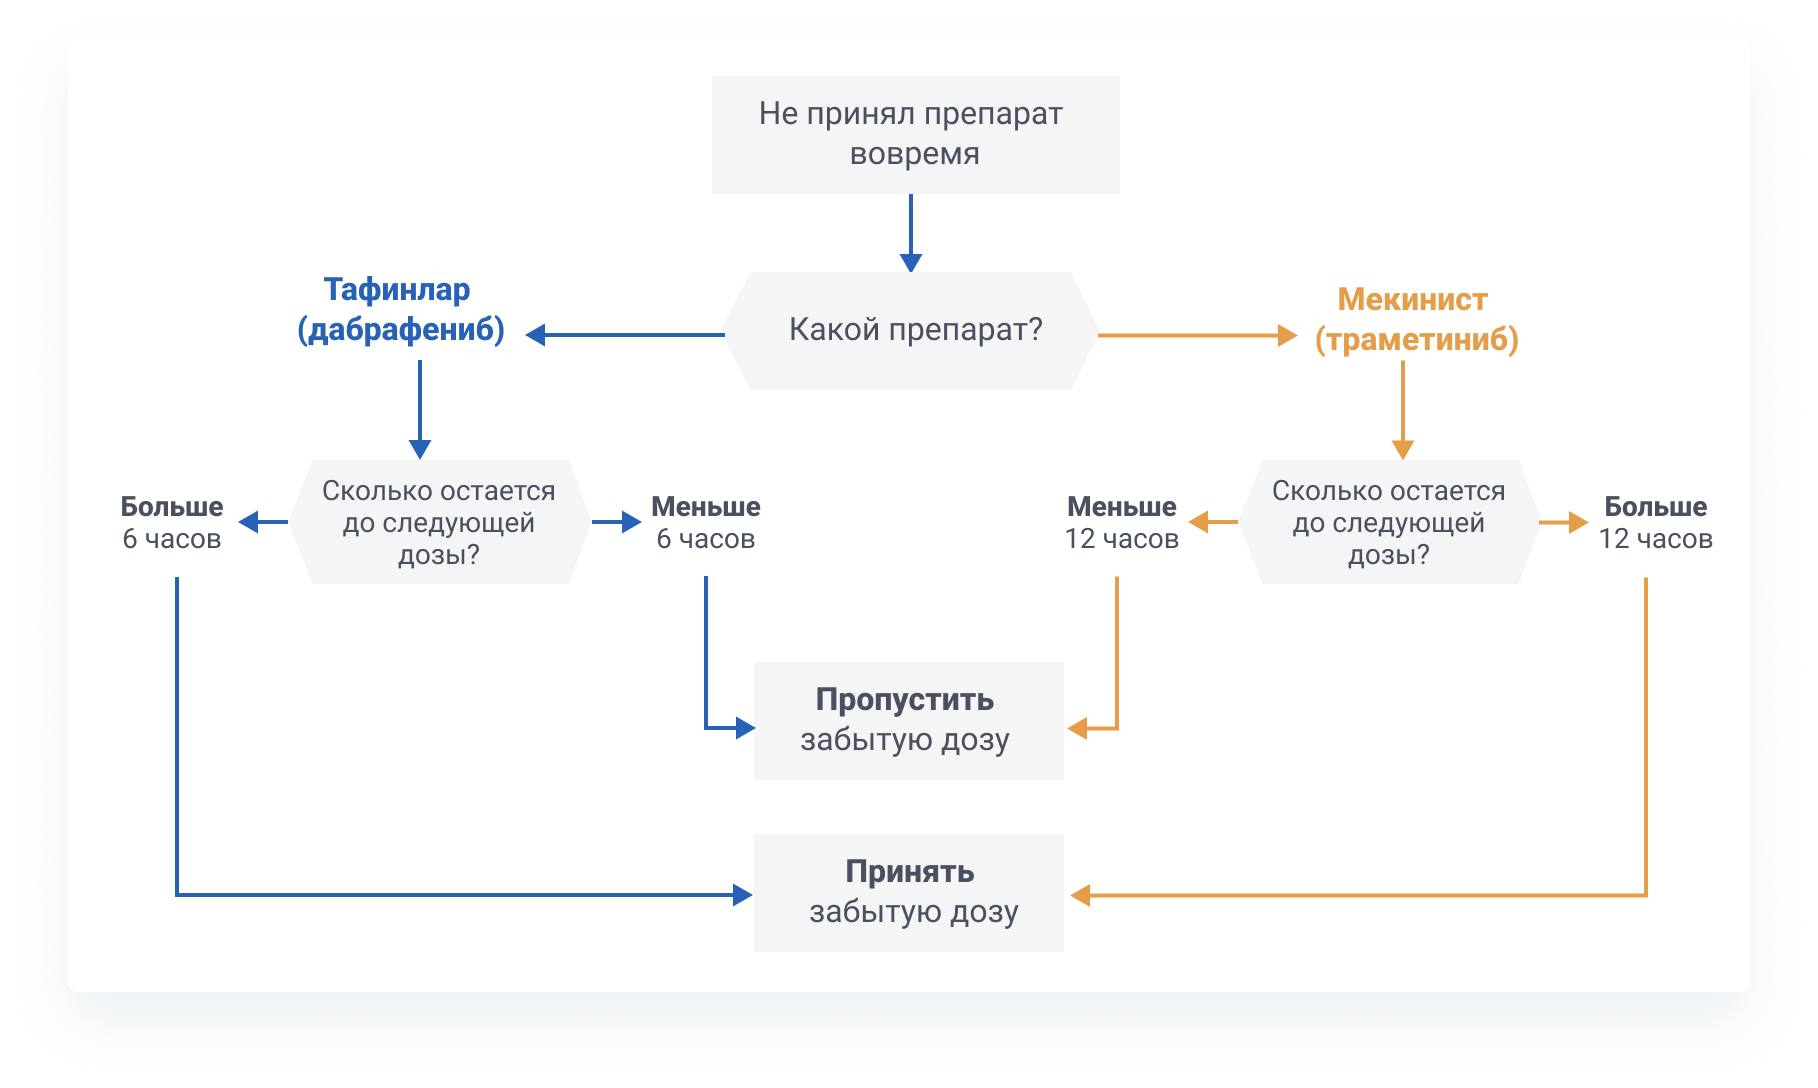
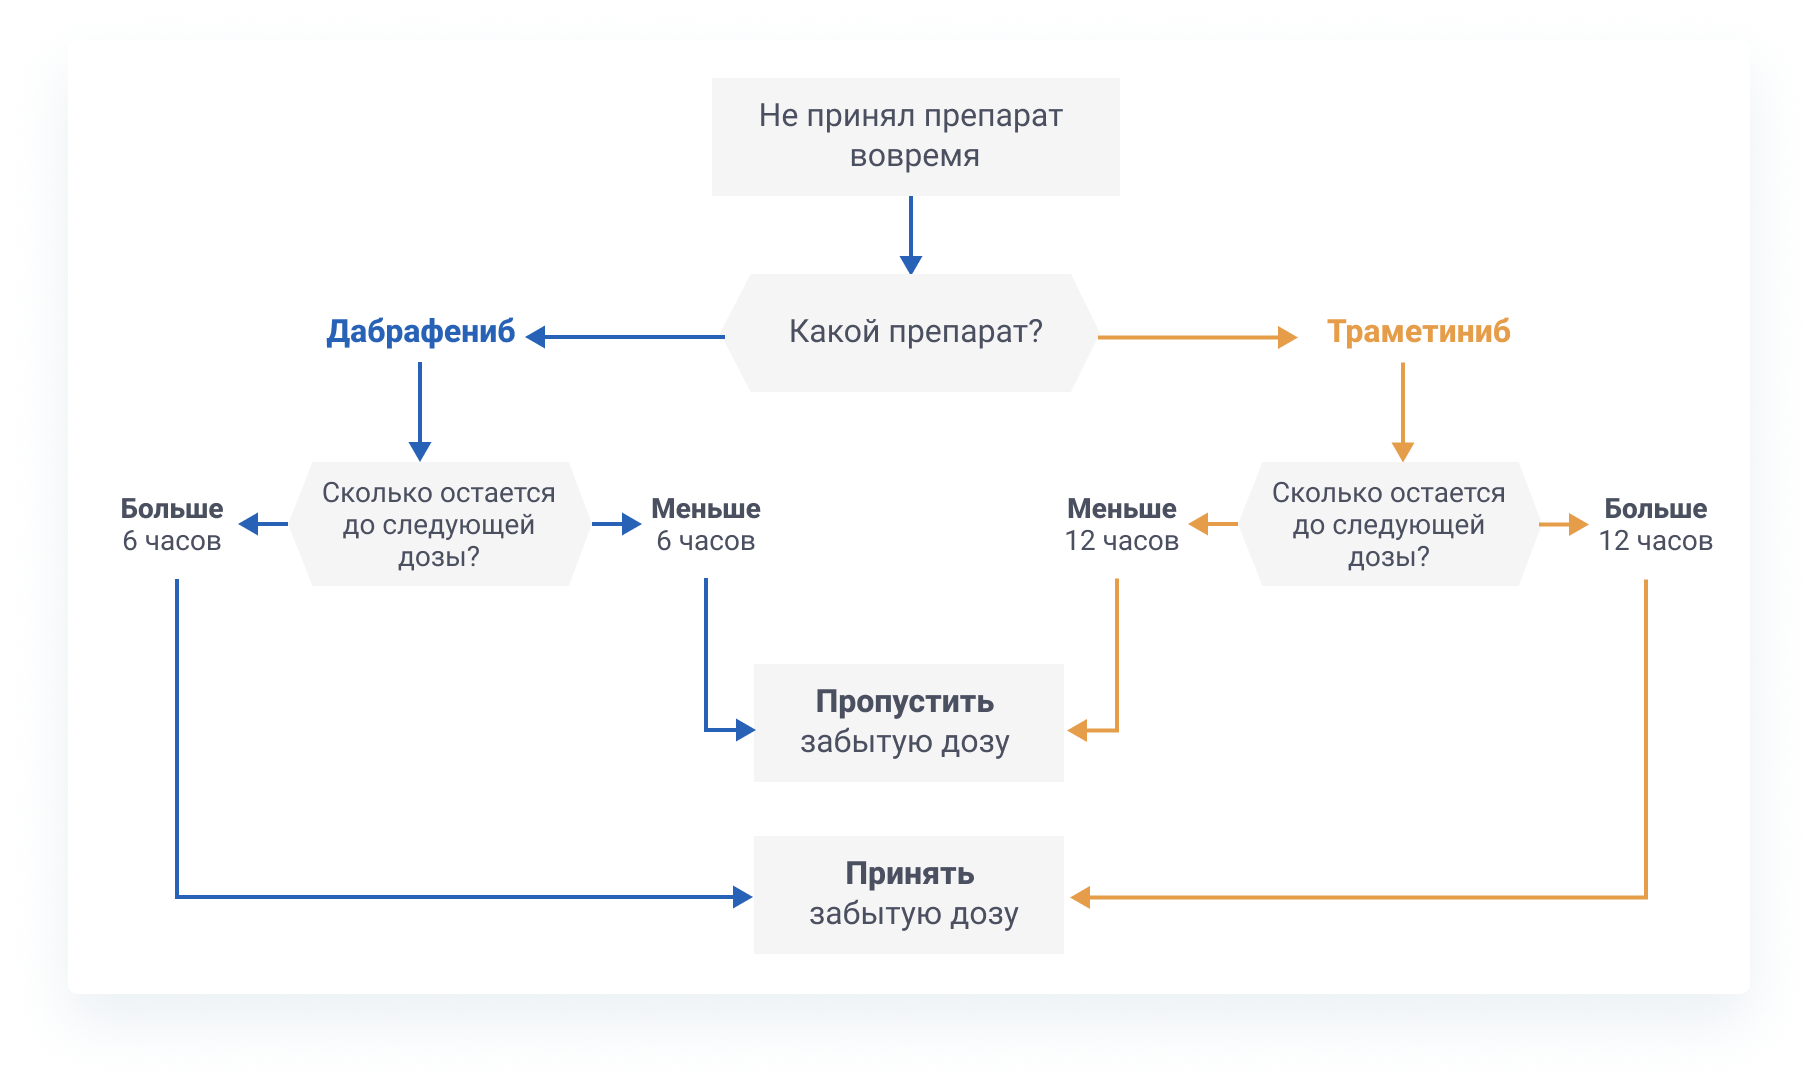
fix: изменил текст и картинки

diff --git a/src/priem.html b/src/priem.html
@@ -21,7 +21,7 @@
               <img src="@img/priem/bg_01.jpg" alt="Как правильно принимать препараты">
             </div>
             <h3 class="drug-storage__how-title title-h3">
-              Как правильно принимать препараты Тафинлар (дабрафениб)<sup>6</sup> и Мекинист (траметиниб)<sup>7</sup>?
+              Как правильно принимать препараты дабрафениб<sup>6</sup> и траметиниб<sup>7</sup>?
             </h3>
             <div class="drug-storage__grid-rules">
               <div class="drug-storage__grid-item drug-storage__grid-item_1">
@@ -31,8 +31,7 @@
                 <div class="drug-storage__grid-text">
                   Перед началом лечения сообщите врачу обо всех препаратах, включая витамины, добавки и безрецептурные
                   средства, которые вы принимаете или принимали недавно. Некоторые лекарственные препараты могут мешать
-                  работе комбинации Тафинлара (дабрафениб) и Мекиниста (траметиниб) или повышать вероятность
-                  возникновения побочных эффектов.
+                  работе комбинации дабрафениб и траметиниб или повышать вероятность возникновения побочных эффектов.
                 </div>
               </div>
               <div class="drug-storage__grid-item drug-storage__grid-item_2">
@@ -56,7 +55,7 @@
               <img src="@img/priem/scheme.png" alt="Схема приема препаратов">
             </div>
             <h3 class="drug-storage__how-title title-h3">
-              Рекомендации по приему препаратов Тафинлар (дабрафениб)<sup>6</sup> и Мекинист (траметиниб)<sup>7</sup>
+              Рекомендации по приему препаратов дабрафениб<sup>6</sup> и траметиниб<sup>7</sup>
             </h3>
             <div class="drug-storage__guidance-list guidance-list">
               <div class="guidance-list__item">
@@ -186,7 +185,8 @@
                   <div class="accordion__content">
                     <div class="accordion__content-body">
                       <p>
-                        Если вы превысили рекомендуемую дозу препаратов, следует срочно сообщить об этом своему лечащему врачу или вызвать бригаду скорой медицинской помощи<sup>6, 7</sup>.
+                        Если вы превысили рекомендуемую дозу препаратов, следует срочно сообщить об этом своему лечащему
+                        врачу или вызвать бригаду скорой медицинской помощи<sup>6, 7</sup>.
                       </p>
                     </div>
                   </div>
@@ -203,7 +203,8 @@
                   <div class="accordion__content">
                     <div class="accordion__content-body">
                       <p>
-                        Если возникла рвота после приема препаратов, принимать дополнительную дозу не следует. Продолжите прием препаратов по расписанию<sup>6, 7</sup>.
+                        Если возникла рвота после приема препаратов, принимать дополнительную дозу не следует.
+                        Продолжите прием препаратов по расписанию<sup>6, 7</sup>.
                       </p>
                     </div>
                   </div>
@@ -211,7 +212,7 @@
               </ul>
             </div>
             <h3 class="drug-storage__how-title title-h3">
-              Как правильно хранить препараты Тафинлар (дабрафениб)<sup>6</sup> и Мекинист (траметиниб)<sup>7</sup>?
+              Как правильно хранить препараты дабрафениб<sup>6</sup> и траметиниб<sup>7</sup>?
             </h3>
             <p class="drug-storage__article article-p">
               Неправильное хранение препаратов может не только снизить эффективность, но и навредить вашему здоровью.
@@ -220,7 +221,7 @@
             <div class="drug-storage__conditions-grid">
               <div class="drug-storage__conditions-item">
                 <h4 class="drug-storage__conditions-title">
-                  Условия хранения препарата Тафинлар (дабрафениб)<sup>6</sup>
+                  Условия хранения препарата дабрафениб<sup>6</sup>
                 </h4>
                 <div class="drug-storage__conditions-flex">
                   <div class="drug-storage__conditions-icon">
@@ -233,7 +234,7 @@
               </div>
               <div class="drug-storage__conditions-item">
                 <h4 class="drug-storage__conditions-title">
-                  Условия хранения препарата Мекинист (траметиниб)<sup>7</sup>
+                  Условия хранения препарата траметиниб<sup>7</sup>
                 </h4>
                 <div class="drug-storage__conditions-flex">
                   <div class="drug-storage__conditions-icon">
@@ -279,7 +280,7 @@
             <a href="why.html" class="controls__link controls__link_prev">
               <span class="controls__link-text">Предыдущий материал</span>
               <span class="controls__link-title">
-                Почему вам назначили Тафинлар (дабрафениб) и Мекинист (траметиниб)
+                Почему Вам назначили терапию препаратами дабрафениб и траметиниб
               </span>
               <span class="controls__link-icon">
                 <svg class="_long-arrow" width="96" height="8" viewBox="0 0 96 8" fill="none"
